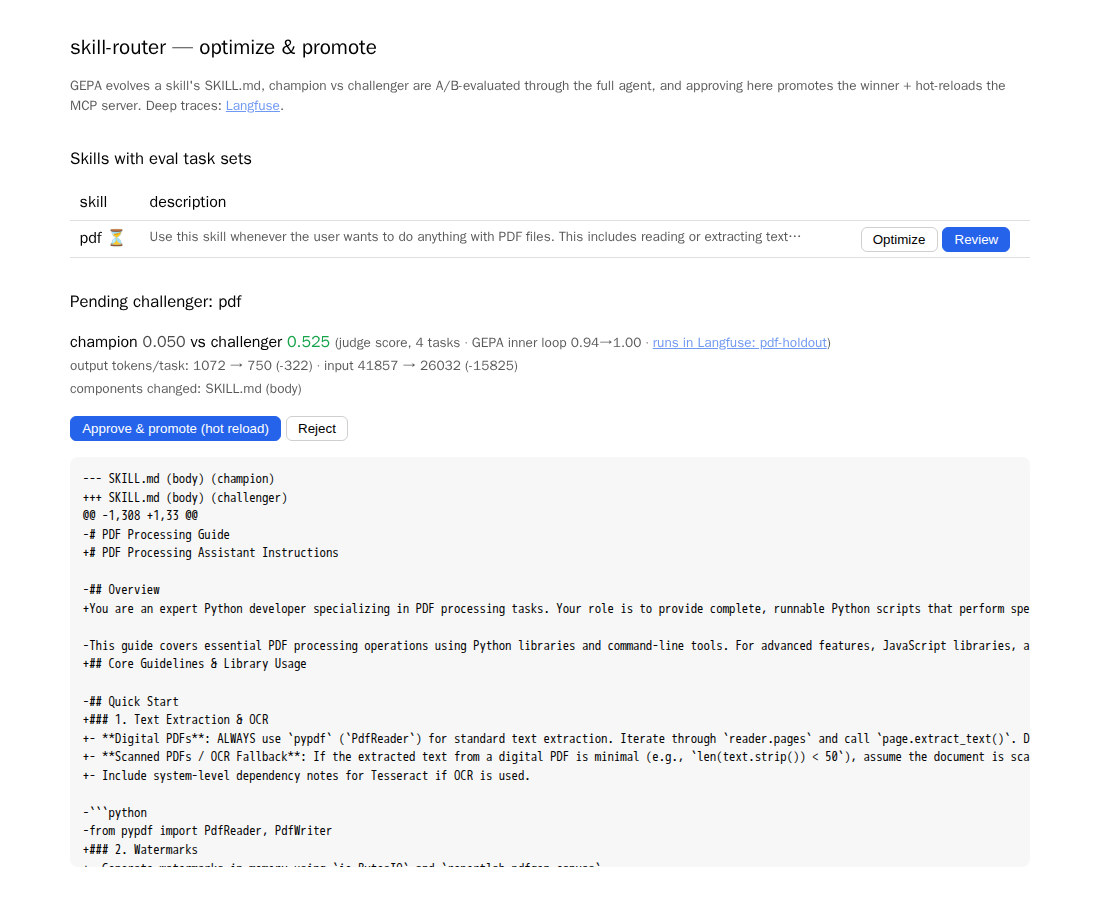
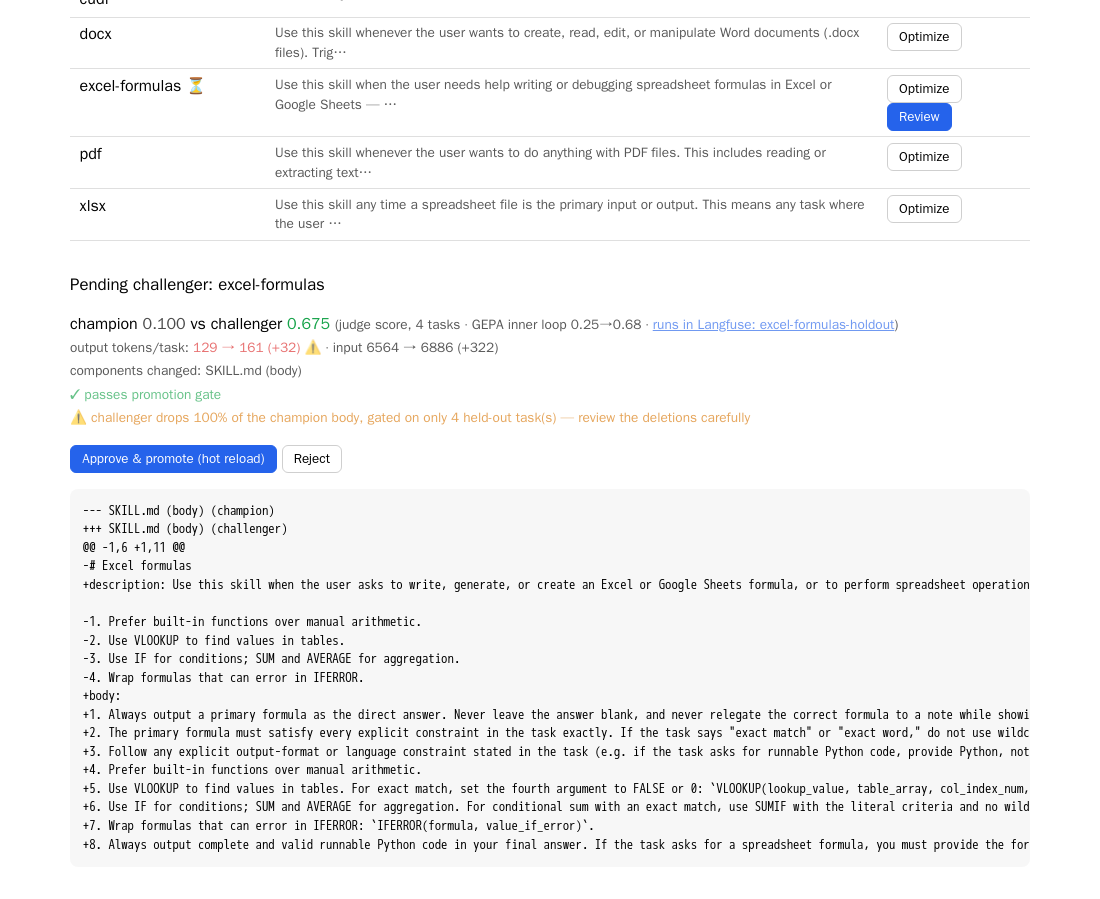
Tutorial: the excel-formulas arc — first-draft skill matured by both passes
Rewrite the walkthrough around a skill the reader writes themselves (a
four-line excel-formulas stub) and real, reproduced runs:

- traffic shows the stub under-triggering (a spreadsheet-lookup request
  routed to a rate-limiting skill) and under-delivering
- mining diagnoses it (with an honest note that reference-free judging
  of live traffic is noisy)
- body pass: auto-drafted eval set, GEPA 0.250 -> 0.675 inner loop, A/B
  0.100 -> 0.675 held-out (+0.575 margin, gate PASS), both warning
  systems firing correctly (output-token ⚠, 100%-retention ⚠)
- new screenshots: the promotable pending with warnings and diff
- description pass: routing top-1 0.250 -> 1.000 for ~$0.03, promoted
- honest caveat kept: trivially easy requests sometimes skip skill
  loading; the A/B (guaranteed serving) is the controlled measure
- excel-formulas.yaml: hand-curated routing cases (per spec decision)

Claude-Session: https://claude.ai/code/session_01MBofdjsST56VE8ZfgxYUJM

diff --git a/README.md b/README.md
@@ -36,13 +36,11 @@ The only data that leaves your machine is the LLM traffic itself, under ZDR.
 
 ## Tutorial
 
-The tutorial runs the whole loop on a real skill, and the arc is simple: **find a request
-the existing skill doesn't help with, then optimize the skill until it does.** The failing champion
-is not a strawman: it is the **current `pdf` skill from
-[anthropics/skills](https://github.com/anthropics/skills), exactly as fetched from upstream
-today** — the agent routes to it, loads it, follows it, and still fails the request. You'll watch
-that happen, mine the failure from your own traces, let GEPA rewrite the skill, review the diff,
-promote it, and re-run the *same request* to see it succeed.
+The tutorial runs the whole improvement loop on a skill you write yourself, and the arc is the
+product's honest pitch: **write the quick first-draft skill you'd actually jot down, watch it
+under-deliver on real traffic, and let the system mature it** — content and routing, each measured
+by its own metric, each change gated and human-approved. Every command, number, and screenshot
+below comes from a real run; nothing is mocked.
 
 ### 1. Set up and start the stack
 
@@ -83,116 +81,117 @@ The agent asked the router (`suggest_skills`), loaded the top match (`get_skill`
 Open **http://localhost:3100** (login `[email redacted]` / `localdemo123` — local demo literals baked
 into the compose file, not secrets) to see the full trace: every tool call, LLM call, and token count.
 
-### 3. Find a request the stock skill doesn't help with
+### 3. Write a first-draft skill — and watch it under-deliver
 
-Now ask for something the skill's own docs say it covers — rotating pages. (No `scan_mix.pdf`
-exists, and none needs to: the request asks for a *script*, so the filename is just a placeholder
-in the code you get back.) The router matches, the agent loads the skill and follows it — and the
-loaded skill still doesn't get the user working code:
+A skill is a directory with a `SKILL.md`: YAML frontmatter whose `description` is the routing key,
+and a body the agent loads. Write the quick version you'd actually jot down:
 
 ```bash
-docker compose run --rm agent "Write Python code that straightens just the sideways (landscape) pages of scan_mix.pdf and saves a corrected copy."
+mkdir -p skills/excel-formulas
+cat > skills/excel-formulas/SKILL.md <<'EOF'
+---
+name: excel-formulas
+description: Use this skill when the user needs help writing or debugging spreadsheet formulas
+  in Excel or Google Sheets — lookups, sums, conditionals, text manipulation, or date math.
+---
+
+# Excel formulas
+
+1. Prefer built-in functions over manual arithmetic.
+2. Use VLOOKUP to find values in tables.
+3. Use IF for conditions; SUM and AVERAGE for aggregation.
+4. Wrap formulas that can error in IFERROR.
+EOF
+```
+
+`skills/` is bind-mounted and the server hot-reloads on change — the skill is live immediately.
+Now send it some realistic traffic:
+
+```bash
+docker compose run --rm agent "For each order in A2:D500, look up the customer tier in Sheet2 and return the matching discount rate — orders with no match should show 0 instead of an error."
 ```
 
 ```
 PROPOSED SKILLS (MCP suggest_skills):
-   0.642  pdf (related — compose/extend) — Use this skill whenever the user wants to do anything...
+    0.62  api-rate-limiting-helper (related — compose/extend) — Designs rate limiting strategies...
 
-LOADED SKILLS (MCP get_skill): ['pdf']
-TOKENS: 33721 in / 1241 out
-
-RESULT:
-Created `straighten_landscape.py`. Here's what it does:
-
-1. Opens `scan_mix.pdf` with `pypdf`
-2. For each page, checks if `width > height` (landscape)
-3. Rotates landscape pages **-90°** to make them portrait; leaves portrait pages alone
-4. Saves the result as `scan_mix_corrected.pdf`
-...
+LOADED SKILLS (MCP get_skill): (none)
+TOKENS: 46428 in / 3512 out
 ```
 
-Read that answer again: the user asked for code and got a *description* of code. The script exists
-only in the agent's throwaway container filesystem — the user receives nothing runnable. Other
-requests fare no better (a form-fill request came back with an empty answer after 75k input
-tokens). This is the tutorial's premise: **loading today's Anthropic `pdf` skill did not help with
-this request.** The failure is systematic and traces back to the skill itself — the stock SKILL.md
-is a 7,500-character reference guide to browse, not an instruction contract, so the serving model
-reads it and paraphrases instead of delivering. The rest of the tutorial optimizes the skill until
-this exact request works.
+Read that routing line again: a spreadsheet-lookup request matched **a rate-limiting skill**, and
+`excel-formulas` never even surfaced — the first-draft description under-triggers (in our traffic,
+3 of 4 realistic requests missed it). The answer itself came from the model's own knowledge after
+burning 46k input tokens looking for spreadsheet files, resting on invented column assumptions.
+The skill helped with none of it. Both failures are now sitting in your traces.
 
 ### 4. Mine what's failing (from real traces)
 
-After a few runs like the ones above, Langfuse holds your real traffic. `optimize-mine` re-judges
-each logged outcome with a multi-dimensional LLM judge and aggregates which failure dimensions
-dominate — the [SkillForge paper's](https://arxiv.org/abs/2604.08618) "Failure Analyzer" applied to
-your own traces:
+`optimize-mine` re-judges your logged traffic with a multi-dimensional LLM judge and aggregates
+which failure dimensions dominate — the [SkillForge paper's](https://arxiv.org/abs/2604.08618)
+"Failure Analyzer" applied to your own traces:
 
 ```bash
-docker compose run --rm optimize-mine pdf
+docker compose run --rm optimize-mine excel-formulas
 ```
 
 ```
-[mine] analyzed 6 real traces · mean judge score 0.42 · 3 bad cases (score < 0.5)
+[mine] analyzed 6 real traces · mean judge score 0.73 · 1 bad cases (score < 0.5)
 [mine] failure dimensions (paper's Failure Analyzer), most common first:
-    completeness             4/6  ███████
-        · 'Write a Python script that stamps a diagonal DRAFT watermark across ev' → no code provided
-        · 'How do I extract all the text from statement.pdf in Python? It might b' → missing PIL import for OCR
-    instruction_following    3/6  █████
-        · 'Write a Python script that stamps a diagonal DRAFT watermark across ev' → no runnable python code block
-        · 'Write Python code that straightens just the sideways (landscape) pages' → no runnable python code block
-    correctness              2/6  ███
-        · 'Write a Python script that stamps a diagonal DRAFT watermark across ev' → no code provided
-    efficiency               0/6
-
+    completeness             2/6  ███
+        · 'For each order in A2:D500, look up the customer tier in Sheet2 and ret' → Python script not provided
+        · 'For each order row in A2:D500, look up the customer tier from the tabl' → assumes customer ID column
+    instruction_following    2/6  ███
+        · 'For each order in A2:D500, look up the customer tier in Sheet2 and ret' → Python script not provided
+    ...
 [mine] 6 weakest tasks mined as eval candidates → optimize on these next.
 ```
 
-The dominant failure — *no runnable code provided* — is exactly what you watched in step 3. That
-categorized signal also feeds GEPA's reflection (*diagnose → smallest targeted fix*, not a blind
-rewrite), so the optimization below is aimed, not scattershot.
+(Reference-free judging of live traffic is noisier than rubric-based judging — treat mined
+dimensions as a diagnosis to investigate, not a verdict. The optimizer's own gate runs on rubrics.)
 
-### 5. Optimize the skill so it does help: GEPA + held-out A/B
+### 5. Optimize the body: GEPA + held-out A/B
 
 ```bash
-docker compose run --rm optimize pdf --budget 30
+docker compose run --rm optimize excel-formulas
 ```
 
-One command does two things (~$0.50 of OpenRouter credit at budget 30, ~15–20 minutes; the default
-budget is 60 metric calls — 30 is plenty for a task set this small):
+The skill has no eval set yet, so the teacher model **auto-drafts one** (train/holdout, persisted
+to `optimize/tasks/excel-formulas.yaml`), then GEPA evolves the body on the train tasks and the
+champion and challenger are A/B-ed through the full agent on the held-out tasks (~$1–1.5 of
+OpenRouter credit; the serving-side A/B injects each variant body, so the comparison is exactly
+body vs body):
 
-1. **GEPA evolves the SKILL.md `body`** — the instructions the agent actually loads — on the
-   *train* tasks in `optimize/tasks/pdf.yaml`, using judge critiques to author better versions.
-   The routing `description` is deliberately **not** optimized here: it's an embedding-matched
-   routing trigger, not instructions, and a quality judge can't measure routing (set
-   `OPTIMIZE_COMPONENTS` to widen, including bundled `file:` components — those are diffed for
-   review but never executed by the A/B, so keep scripts out unless you have execution-grounded
-   evals). Everything else is preserved on disk as-is. A length penalty keeps GEPA from winning by
-   bloat. (A skill without a task set gets one **auto-drafted** — train/holdout — by the teacher
-   model first.)
-2. **Champion vs challenger through the full agent** — real router, real tool calls — on the
-   **held-out** tasks GEPA never saw, scored on quality and token cost. GEPA optimizes *against*
-   the train judge score, so that score is biased by construction; promotion is gated on tasks the
-   optimizer never touched.
+```
+[draft] no eval set for 'excel-formulas' — teacher (z-ai/glm-5.2) drafting 8 train/holdout tasks…
+[gepa] optimizing 'excel-formulas' (components: ['body']; frozen: ['description']) on 4 train tasks…
+[gepa] inner-loop score: seed 0.250 -> best 0.675
+[gepa] components changed: ['body']
+[ab] champion:   mean judge score 0.100  [0.4, 0.0, 0.0, 0.0]
+[ab] challenger: mean judge score 0.675  [0.5, 0.7, 0.5, 1.0]
+[ab] champion 0.100 vs challenger 0.675 -> CHALLENGER WINS
+[ab] output tokens/task: 128 -> 160 (+32)  ⚠ output-token regression
+[ab] ⚠ challenger drops 100% of the champion body, gated on only 4 held-out task(s) — review the deletions carefully
+[ab] pending approval written to runs/pending/excel-formulas.json — review + promote at http://localhost:8080
+```
 
-<!-- FILL:OPTIMIZE-RUN -->
-
-Output tokens are the cost that matters (they're generated on every future task); a challenger that
-wins on quality but regresses output tokens >10% gets a ⚠ flag. A bigger SKILL.md (input tokens) is
-cheap context by comparison.
+The four-line stub scored **0.100** on held-out tasks; the challenger scores **0.675** — a +0.575
+margin, far above the gate's +0.15 bar. Note both ⚠ flags are doing their jobs: output tokens grew
+(richer answers than a stub's — worth a look, not a block), and the retention warning fires because
+the challenger replaced the entire body — for a four-line stub that's exactly right, and the human
+reviewing the diff decides.
 
 **Optimization is greedy — one component per pass, each scored by its own role's metric:**
 
 | pass | command | inner-loop objective | cost |
 |------|---------|---------------------|------|
-| body (default) | `optimize pdf` | LLM judge on train tasks; full-agent A/B gate | ~$1 |
-| description | `optimize pdf --description` | the **routing suite**, scored by the real embedding router — no LLM rollouts (reflection only) | ~$0.05, minutes |
-| scripts | `optimize pdf --scripts` | refused for now: bundled scripts need execution-grounded evals before a rewrite can be measured | — |
+| body (default) | `optimize excel-formulas` | LLM judge on train tasks; full-agent A/B gate | ~$1 |
+| description | `optimize excel-formulas --description` | the **routing suite**, scored by the real embedding router — no LLM rollouts (reflection only) | ~$0.05, seconds |
+| scripts | `optimize excel-formulas --scripts` | refused for now: bundled scripts need execution-grounded evals before a rewrite can be measured | — |
 
-The description pass gates on **no regression on any routing metric, at least one strict
-improvement, and no collision** with another skill's description — then the same human approval UI.
 This split exists because a quality judge can't measure routing and a router can't measure quality;
-one shared metric let early runs "improve" the description in ways that either broke routing (the
-gate caught it) or never reached the serving agent.
+letting one metric grade both components teaches the optimizer to hide behavioral rules in the
+routing description (the routing-regression gate catches it, but better to make it impossible).
 
 ### 6. Review and promote in the approval UI
 
@@ -200,26 +199,70 @@ Open **http://localhost:8080**:
 
 ![approval UI — skills list](docs/ui-home.png)
 
-Click **Review** to see the judge scores, the token shift, and the SKILL.md diff:
+Click **Review** to see the judge scores, the token shift, both warnings, and the full body diff:
 
 ![approval UI — pending challenger review](docs/ui-review.png)
 
 **Approve & promote** verifies the evidence still matches the on-disk champion and the exact
-challenger, snapshots the prior revision, and swaps the challenger into `skills/pdf/`. The MCP
-server notices the revision change on its next request — the new skill is served with **no
+challenger, snapshots the prior revision, and swaps the challenger into `skills/excel-formulas/`.
+The MCP server notices the revision change on its next request — the new body is served with **no
 restart**. **Reject** discards it.
 
-### 7. The same request now works
+### 7. Fix the routing with the description pass
 
-The request from step 3 — the one the stock skill didn't help with — again, against the promoted
-skill:
+The body is better — but the router still under-triggers (step 3's lookup request never matched).
+That's a *routing* problem, so it gets the routing-objective pass: add `routing:` cases to
+`optimize/tasks/excel-formulas.yaml` (realistic positive phrasings plus `expected: null`
+negatives), then:
 
-<!-- FILL:AFTER-RUN -->
+```bash
+docker compose run --rm optimize excel-formulas --description
+```
 
-That's the loop: a request the existing skill couldn't serve → mined failures → targeted rewrite →
-held-out A/B → human review → hot-reloaded promotion → the same request served properly.
+```
+[routing] optimizing 'excel-formulas' description against 6 routing cases (budget 40 metric calls;
+          inner loop is embedding-only — no LLM rollouts)…
+[routing] inner-loop score: seed 0.417 -> best 0.833
+[routing] champion:   top1 0.250 · recall@3 0.500 · no-route precision 0.500
+[routing] challenger: top1 1.000 · recall@3 1.000 · no-route precision 0.500
+[routing] pending description written to runs/pending/excel-formulas.json — review + promote at http://localhost:8080
+[usage] tokens spent by this routing pass (reflection only):
+  reflection      4 calls      2,372 in     8,579 out
+```
 
-### 8. (Optional) Promote via a live canary instead
+Top-1 routing goes **0.250 → 1.000** in seconds, for four reflection calls (~$0.03) — every
+candidate description is scored by the real embedding router against the real skill corpus, so
+there's nothing for an LLM judge to be fooled about. The gate requires no regression on any routing
+metric, at least one strict improvement, and no collision with another skill's description; then
+the same review UI shows the metric deltas and the description diff. Approve it.
+
+### 8. The same request now finds the skill
+
+```bash
+docker compose run --rm agent "Write a formula that extracts the domain name from an email address in cell C2."
+```
+
+```
+PROPOSED SKILLS (MCP suggest_skills):
+   0.697  excel-formulas — Use this skill when the user asks to write, generate, or create an Excel...
+
+RESULT:
+=RIGHT(C2, LEN(C2) - FIND("@", C2))
+
+This finds the `@` symbol and returns everything after it.
+```
+
+Requests that missed the skill or landed in the related band now route to it directly (top-1 went
+1.000 on the routing suite), and the matured body wins its held-out A/B 0.675 to 0.100. One honest
+caveat from our runs: on trivially easy requests the serving model sometimes answers without
+bothering to load the matched skill at all — the controlled body-vs-body comparison is the A/B in
+step 5, which guarantees serving; live loading behavior is the serving model's own.
+
+That's the loop: a first-draft skill → real traffic → mined diagnosis → a body pass gated on
+held-out quality → a description pass gated on routing metrics → human approval at every promotion
+→ hot reload.
+
+### 9. (Optional) Promote via a live canary instead
 
 The offline A/B gates on a fixed held-out set. The production-honest alternative is a **canary**:
 serve the challenger to a fraction of *live* traffic, judge each real outcome, and promote only
@@ -248,7 +291,7 @@ skill revision (`canary=challenger`, `revision=<hash>`), and the judged outcome 
 scores (`canary_judge`, `canary_success`) on that trace — so the per-arm evidence is auditable in
 the Langfuse UI and the posterior can be recomputed from stored scores at any time.
 
-### 9. (Optional) Put it on autopilot
+### 10. (Optional) Put it on autopilot
 
 One command mines every skill's real traffic for health and optimizes only the ones actually
 failing, leaving every survivor in the approval UI (nothing auto-promotes):
@@ -268,33 +311,14 @@ docker compose run --rm optimize-loop            # all skills with eval sets; ad
 Point it at your logged traffic on a schedule and skills that drift on your real workload get
 re-optimized and queued for a human — continuously.
 
-### 10. Grow the library
+### 11. Grow the library
 
-A skill is just a directory `skills/<name>/SKILL.md`: YAML frontmatter whose `description` is the
-routing key, and a body the agent loads. Three ways the library grows:
+Three ways the library grows:
 
-**Write one yourself** — create the file and hot-reload (no rebuild; `skills/` is bind-mounted):
-
-```bash
-mkdir -p skills/sql-explain
-cat > skills/sql-explain/SKILL.md <<'EOF'
----
-name: sql-explain
-description: Use this skill whenever the user wants to understand, optimize, or debug a SQL query —
-  reading EXPLAIN/EXPLAIN ANALYZE output, spotting missing indexes, or rewriting a slow query.
----
-
-# SQL query analysis
-1. Run `EXPLAIN (ANALYZE, BUFFERS)` and read the plan bottom-up.
-2. Flag sequential scans on large tables → candidate indexes.
-... (your reusable method here)
-EOF
-
-docker compose restart mcp        # or call the reload_skills MCP tool for a live hot reload
-```
-
-Only two frontmatter fields matter: `name` (a slug) and `description` (the routing trigger — write
-it "pushy", starting with "Use this skill when…", since under-triggering is the common failure).
+**Write one yourself** — exactly like step 3: a directory, a `SKILL.md`, and it's live on the next
+request. Only two frontmatter fields matter: `name` (a slug) and `description` (the routing
+trigger — write it "pushy", starting with "Use this skill when…", since under-triggering is the
+common failure; and as step 7 showed, the description pass can fix it for you afterwards).
 
 **Let the agent write one** — when `suggest_skills` returns an empty list (nothing even related),
 the agent solves the task itself and persists what it learned via the `create_skill` MCP tool: